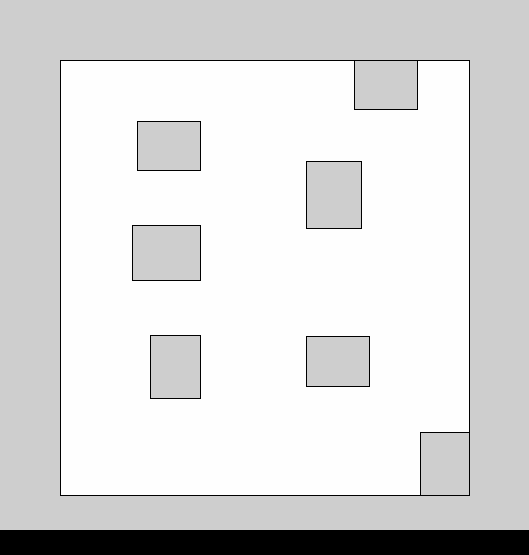
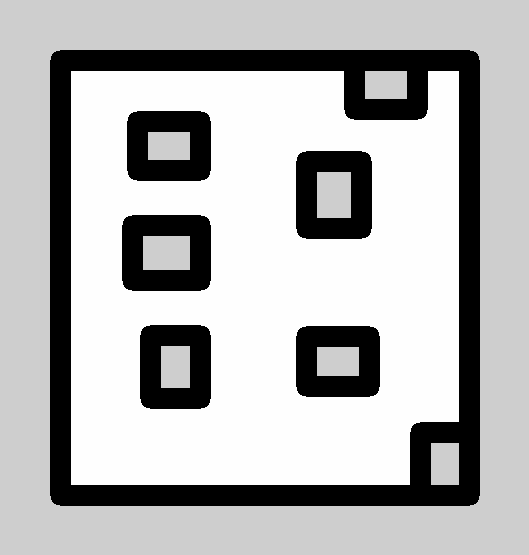
some changes.

diff --git a/catkin_ws/map_evaluation/gt_creator/gt_creator.py b/catkin_ws/map_evaluation/gt_creator/gt_creator.py
@@ -6,9 +6,8 @@ import numpy as np
 import yaml
 
 debug = 0
-
-
 map_scaling = 0
+
 def scale(value):
     global map_scaling
     global debug
@@ -35,13 +34,13 @@ def parseConfigString(configstring):
     image = np.zeros((scale(map_y+2*offset_y), scale(map_x+2*offset_x), 1), np.uint8)
 
     #creates unknown area
-    cv2.rectangle(image, (scale(0), scale(0)), (image.shape[0], image.shape[1]), gt_unknown, -1)
+    cv2.rectangle(image, (scale(0), scale(0)), (image.shape[1], image.shape[0]), gt_unknown, cv2.FILLED)
 
     #create free area
-    cv2.rectangle(image, (scale(offset_x), scale(offset_y)), (scale(map_x+offset_x), scale(map_y+offset_y)), gt_free, -1)
+    cv2.rectangle(image, (scale(offset_x), scale(offset_y)), (scale(map_x+offset_x), scale(map_y+offset_y)), gt_free, cv2.FILLED)
 
     # create map borders
-    cv2.rectangle(image, (scale(offset_x), scale(offset_y)), (scale(map_x+offset_x), scale(map_y+offset_y)), gt_occupied, map_wallthickness, cv2.LINE_8)
+    cv2.rectangle(image, (scale(offset_x), scale(offset_y)), (scale(map_x+offset_x), scale(map_y+offset_y)), gt_occupied, map_wallthickness)
 
     # draw every obstacle
     numb_obstacle = len(configstring['obstacle'])
@@ -53,8 +52,10 @@ def parseConfigString(configstring):
             box_y = configstring['obstacle']['box'+str(i)]['y'] + offset_y
             box_width = configstring['obstacle']['box'+str(i)]['width']
             box_height = configstring['obstacle']['box'+str(i)]['height']
-            cv2.rectangle(image, (scale(box_x), scale(box_y)), (scale(box_x+box_width), scale(box_y+box_height)), gt_unknown, -1)
-            cv2.rectangle(image, (scale(box_x), scale(box_y)), (scale(box_x+box_width), scale(box_y+box_height)), gt_occupied, map_wallthickness, cv2.LINE_8)
+            #creates unknown area in the box
+            cv2.rectangle(image, (scale(box_x), scale(box_y)), (scale(box_x+box_width), scale(box_y+box_height)), gt_unknown, cv2.FILLED)
+            #we need to build a wall for the box
+            cv2.rectangle(image, (scale(box_x), scale(box_y)), (scale(box_x+box_width), scale(box_y+box_height)), gt_occupied, map_wallthickness)
             if (debug):
                 cv2.putText(image,'box'+str(i),(scale(box_x), scale(box_y)), cv2.FONT_HERSHEY_SIMPLEX, 1,128,2)
         except:
@@ -67,7 +68,7 @@ def parseConfigString(configstring):
     cv2.imwrite("gt.png", image)
 
 
-
+# MAIN
 if __name__ == "__main__":
 
     # Read sysargs
